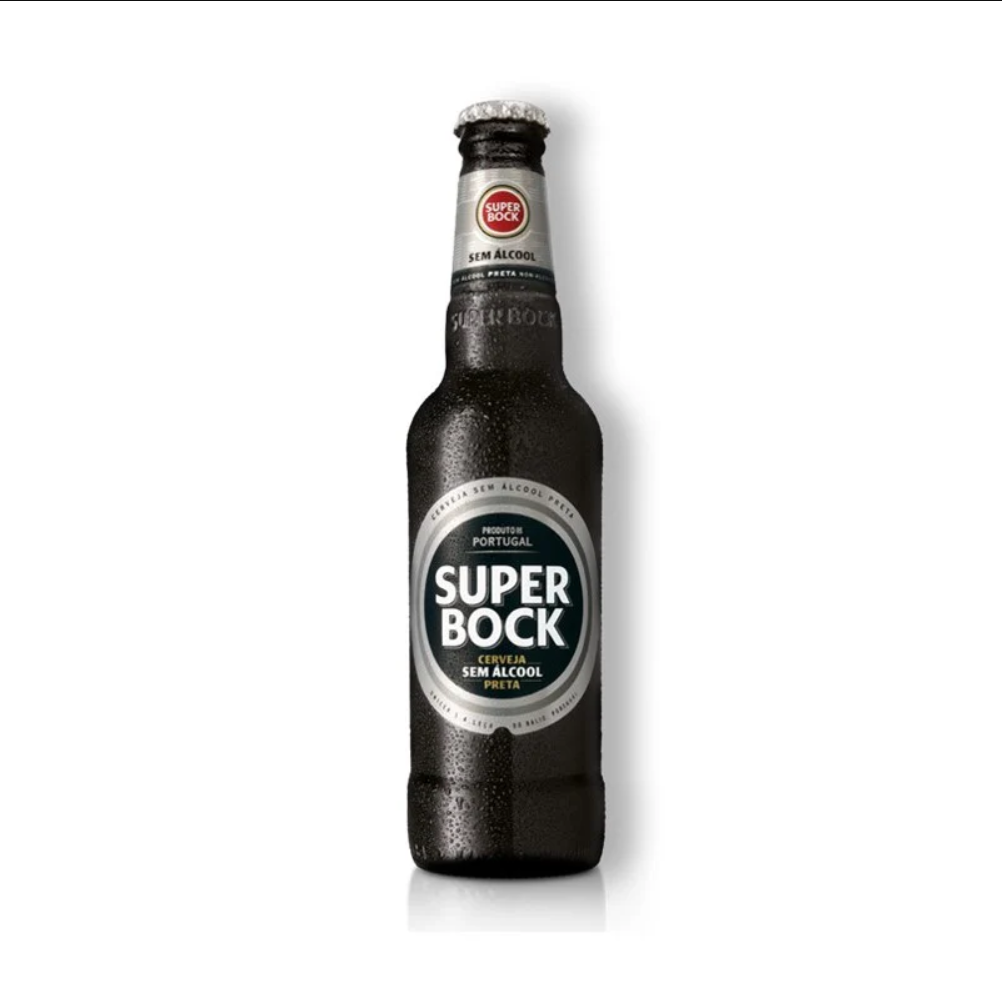
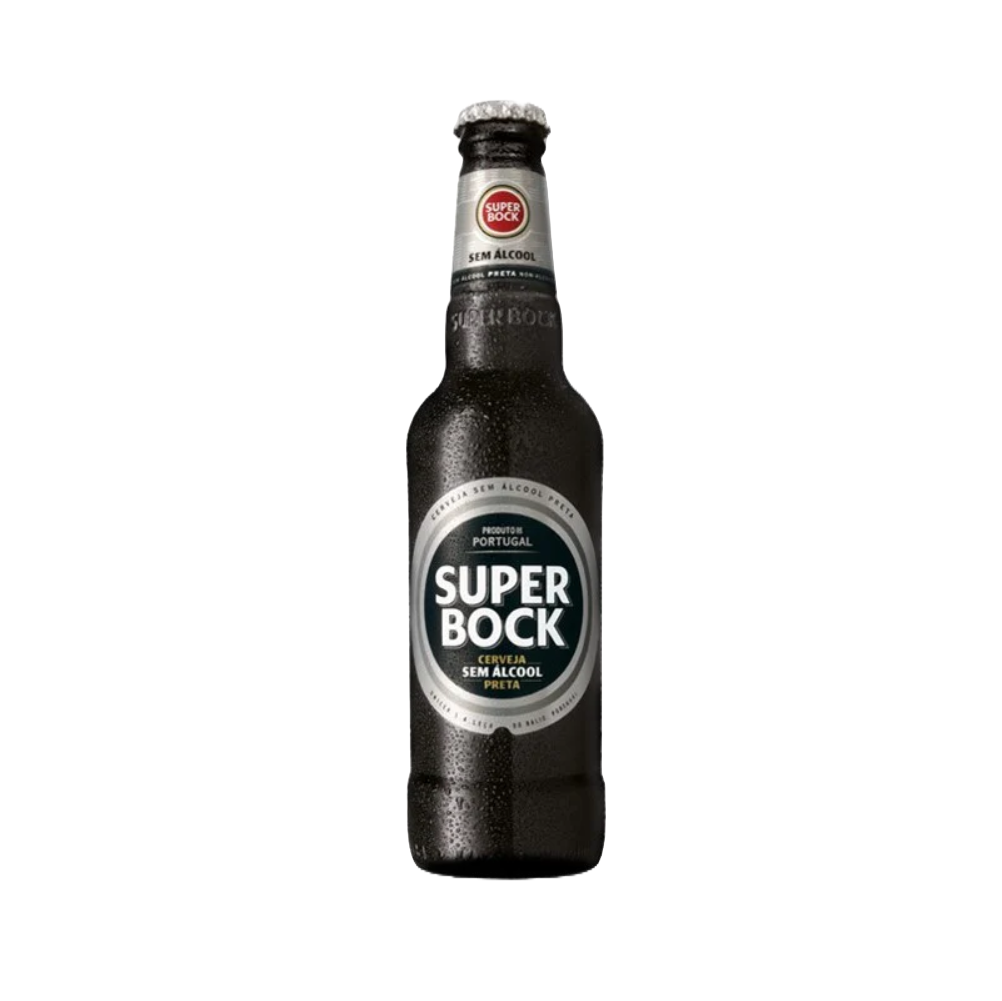
ajustar melhor as imagens e separar imagens de home com imagens de detalhes

Changed region(s): [[0.4022, 0.0929, 0.6497, 0.9291]]

diff --git a/js/cervejas.js b/js/cervejas.js
@@ -7,18 +7,18 @@ document.addEventListener("DOMContentLoaded", () => {
     // Simulação de dados (Extendendo a base de dados para ter 12 itens)
     //podemos meter mais, 12 deve chegar para mostrar a funcionalidade
     const baseBeers = [
-        { id: 1, name: "Heineken Original", style: "Lager ", img: "/img/heineken_1.jpg", price: "2,50€" },
-        { id: 2, name: "Sagres Original", style: "Lager(Pilsner)", img: "/img/sagres.png", price: "2,00€" },
-        { id: 3, name: "Super Bock Original", style: "Lager(Pilsner)", img: "/img/superbock.png", price: "2,20€" },
-        { id: 4, name: "Erdinger Weissbier", style: "Weissbier(Cerveja de Trigo)", img: "/img/erdinger_alk.png", price: "3,50€" },
-        { id: 5, name: "Baron Des Cédres IPA", style: "IPA(India Pale Ale)", img: "/img/baronipa.png", price: "3,80€" },
-        { id: 6, name: "Corona Extra", style: "Lager", img: "/img/corona_extra.jpg", price: "3,00€" },
-        { id: 7, name: "Sagres Preta", style: "Dark Lager", img: "/img/sagres_preta.jpg", price: "2,20€" },
-        { id: 8, name: "Super Bock Abadia", style: "Belgian Abbey Ale", img: "/img/superbock_abadia.png", price: "2,50€" },
-        { id: 9, name: "Super Bock Stout", style: "Stout", img: "/img/superbock_stout.png", price: "2,40€" },
-        { id: 10, name: "Sagres 0,0%", style: "Lager sem Álcool", img: "/img/sagres0.jpg", price: "2,00€" },
-        { id: 11, name: "Super Bock sem Glúten", style: "Lager sem Glúten", img: "/img/superbock_semgluten.jpeg", price: "2,50€" },
-        { id: 12, name: "Praxis", style: "Lager", img: "/img/praxis.png", price: "2,20€" }
+        { id: 1, name: "Heineken Original", style: "Lager ", img: "/img/home/heineken.jpg", price: "2,50€" },
+        { id: 2, name: "Sagres Original", style: "Lager(Pilsner)", img: "/img/home/sagres.png", price: "2,00€" },
+        { id: 3, name: "Super Bock Original", style: "Lager(Pilsner)", img: "/img/home/super.jpg", price: "2,20€" },
+        { id: 4, name: "Erdinger Weissbier", style: "Weissbier(Cerveja de Trigo)", img: "/img/home/erdinger.jpg", price: "3,50€" },
+        { id: 5, name: "Baron Des Cédres IPA", style: "IPA(India Pale Ale)", img: "/img/home/baron.png", price: "3,80€" },
+        { id: 6, name: "Corona Extra", style: "Lager", img: "/img/home/corona.png", price: "3,00€" },
+        { id: 7, name: "Sagres Preta", style: "Dark Lager", img: "/img/home/preta_web.png", price: "2,20€" },
+        { id: 8, name: "Super Bock Abadia", style: "Belgian Abbey Ale", img: "/img/home/abadia.jpg", price: "2,50€" },
+        { id: 9, name: "Super Bock Stout", style: "Stout", img: "/img/home/stout.png", price: "2,40€" },
+        { id: 10, name: "Sagres 0,0%", style: "Lager sem Álcool", img: "/img/home/sagres-00.jpg", price: "2,00€" },
+        { id: 11, name: "Super Bock sem Glúten", style: "Lager sem Glúten", img: "/img/home/supersem.jpg", price: "2,50€" },
+        { id: 12, name: "Praxis", style: "Lager", img: "/img/home/praxishome.jpg", price: "2,20€" }
     ];
 
     // Gerar 12 cervejas

diff --git a/html/home.html b/html/home.html
@@ -76,7 +76,7 @@
     <a href="detalhe.html?id=1" class="beer-card-link">
         <div class="beer-card">
             <div class="card-image-container">
-                <img src="/img/heineken_1.jpg" alt="Heineken">
+                <img src="/img/home/heineken.jpg" alt="Heineken">
             </div>
             <div class="card-content">
                 <h3 class="beer-name">Heineken Original</h3>
@@ -92,7 +92,7 @@
     <a href="detalhe.html?id=2" class="beer-card-link">
         <div class="beer-card">
             <div class="card-image-container">
-                <img src="/img/sagres.png" alt="Sagres">
+                <img src="/img/home/sagres.png" alt="Sagres">
             </div>
             <div class="card-content">
                 <h3 class="beer-name">Sagres Original</h3>
@@ -108,7 +108,7 @@
     <a href="detalhe.html?id=3" class="beer-card-link">
         <div class="beer-card">
             <div class="card-image-container">
-                <img src="/img/superbock.png" alt="Super Bock">
+                <img src="/img/home/super.jpg" alt="Super Bock">
             </div>
             <div class="card-content">
                 <h3 class="beer-name">Super Bock Original</h3>
@@ -124,7 +124,7 @@
     <a href="detalhe.html?id=4" class="beer-card-link">
         <div class="beer-card">
             <div class="card-image-container">
-                <img src="/img/erdinger_alk.png" alt="Erdinger">
+                <img src="/img/home/erdinger.jpg" alt="Erdinger">
             </div>
             <div class="card-content">
                 <h3 class="beer-name">Erdinger Weissbier</h3>
@@ -140,7 +140,7 @@
     <a href="detalhe.html?id=5" class="beer-card-link">
         <div class="beer-card">
             <div class="card-image-container">
-                <img src="/img/baronipa.png" alt="Baron IPA">
+                <img src="/img/home/baron.png" alt="Baron IPA">
             </div>
             <div class="card-content">
                 <h3 class="beer-name">Baron Des Cédres IPA</h3>
@@ -156,7 +156,7 @@
     <a href="detalhe.html?id=6" class="beer-card-link">
         <div class="beer-card">
             <div class="card-image-container">
-                <img src="/img/corona_extra.jpg" alt="Corona">
+                <img src="/img/home/corona.png" alt="Corona">
             </div>
             <div class="card-content">
                 <h3 class="beer-name">Corona Extra</h3>

diff --git a/js/detalhe.js b/js/detalhe.js
@@ -11,7 +11,7 @@ const beerDatabase = [
         style: "Lager",
         price: "2,50€",
         rating: 4.4,
-        img: "/img/heineken_1.jpg",
+        img: "/img/heineken_original.png",
         desc: {
             pt: `<strong>Origem:</strong> Holanda <br>
             <strong>Conteúdo alcoólico:</strong> 5,0% vol <br>
@@ -39,7 +39,7 @@ const beerDatabase = [
         style: "Lager(Pilsner)",
         price: "2,00€",
         rating: 4.7,
-        img: "/img/sagres.png",
+        img: "/img/sagres_original.png",
         desc: {
             pt: `
             <strong>Origem:</strong> Portugal <br>
@@ -155,7 +155,7 @@ const beerDatabase = [
         style: "Lager",
         price: "3,00€",
         rating: 4.0,
-        img: "/img/corona_extra.jpg",
+        img: "/img/corona_extra.png",
         desc: {
             pt: `<strong>Origem:</strong> México <br>
             <strong>Conteúdo alcoólico:</strong> 4,5% vol <br><br>
@@ -183,7 +183,7 @@ const beerDatabase = [
         style: "Dark Lager",
         price: "2,20€",
         rating: 4.6,
-        img: "/img/sagres_preta.jpg",
+        img: "/img/sagres_preta.png",
         desc: {
             pt: `<strong>Origem:</strong> Portugal <br>
             <strong>Conteúdo alcoólico:</strong> 4,3% vol <br><br>
@@ -267,7 +267,7 @@ const beerDatabase = [
         style: "Lager sem Alcoól",
         price: "2,00€",
         rating: 3.9,
-        img: "/img/sagres_0.jpg",
+        img: "/img/sagres0.png",
         desc: {
             pt: `
             <strong>Origem:</strong> Portugal <br>
@@ -297,7 +297,7 @@ const beerDatabase = [
         style: "Lager sem Glúten",
         price: "2,50€",
         rating: 4.1,
-        img: "/img/superbock_sem_gluten.jpeg",
+        img: "/img/superbock_semgluten.png",
         desc: {
             pt: `<strong>Origem:</strong> Portugal <br>
             <strong>Conteúdo alcoólico:</strong> 5% vol <br><br>

diff --git a/css/detalhe.css b/css/detalhe.css
@@ -20,29 +20,31 @@
     box-shadow: 0 10px 30px rgba(0,0,0,0.5);
 }
 
-/* Imagem Grande */
 .product-image {
     flex: 1;
+    min-width: 300px;
+    background: #fff;
+    padding: 20px; /* Padding ligeiramente reduzido */
+    border-radius: 15px;
     display: flex;
-    justify-content: center;
     align-items: center;
-    background-color: #121212; 
-    border-radius: 8px;
-    padding: 20px;
-    border: 1px solid var(--gold);
-    /* Garante que o container tem altura suficiente mas não excessiva */
-    min-height: 400px; 
-    overflow: hidden; /* Evita que imagens muito grandes saiam da borda */
+    justify-content: center;
+    box-shadow: 0 10px 30px rgba(0,0,0,0.5);
+    
+    /* MUDANÇA IMPORTANTE: Definir uma altura fixa em vez de max-height */
+    height: 500px; 
 }
 
+/* A imagem dentro do contentor */
 .product-image img {
-    /* Ajuste para responsividade e centralização */
-    max-width: 100%;
-    max-height: 500px;
-    width: auto;
-    height: auto;
-    object-fit: contain; /* Garante que a imagem inteira aparece sem cortes */
-    filter: drop-shadow(0 0 10px rgba(0,0,0,0.8));
+    /* width: 100%; height: auto; max-height: 500px;  <- REMOVER ISTO */
+    
+    /* NOVA ABORDAGEM: */
+    width: 100%;
+    height: 100%; /* Força a imagem a tentar ocupar todo o espaço disponível do pai */
+    object-fit: contain; /* Garante que ela cabe inteira sem distorcer ou cortar */
+    
+    filter: drop-shadow(0 10px 20px rgba(0,0,0,0.3));
 }
 
 /* Informações */

diff --git a/css/home.css b/css/home.css
@@ -163,19 +163,25 @@ nav a:hover {
 }
 
 .card-image-container {
-    height: 200px;
+    height: 250px; 
     width: 100%;
-    background-color: #2a2a2a;
+    background-color: #2a2a2a; 
+    
     display: flex;
     align-items: center;
     justify-content: center;
     overflow: hidden;
+    padding: 0;
+    border: none;
+    border-radius: 0; 
 }
 
 .card-image-container img {
     width: 100%;
     height: 100%;
-    object-fit: cover;
+    object-fit: cover; 
+    transition: transform 0.3s ease;
+    filter: none; 
 }
 
 .card-content {
